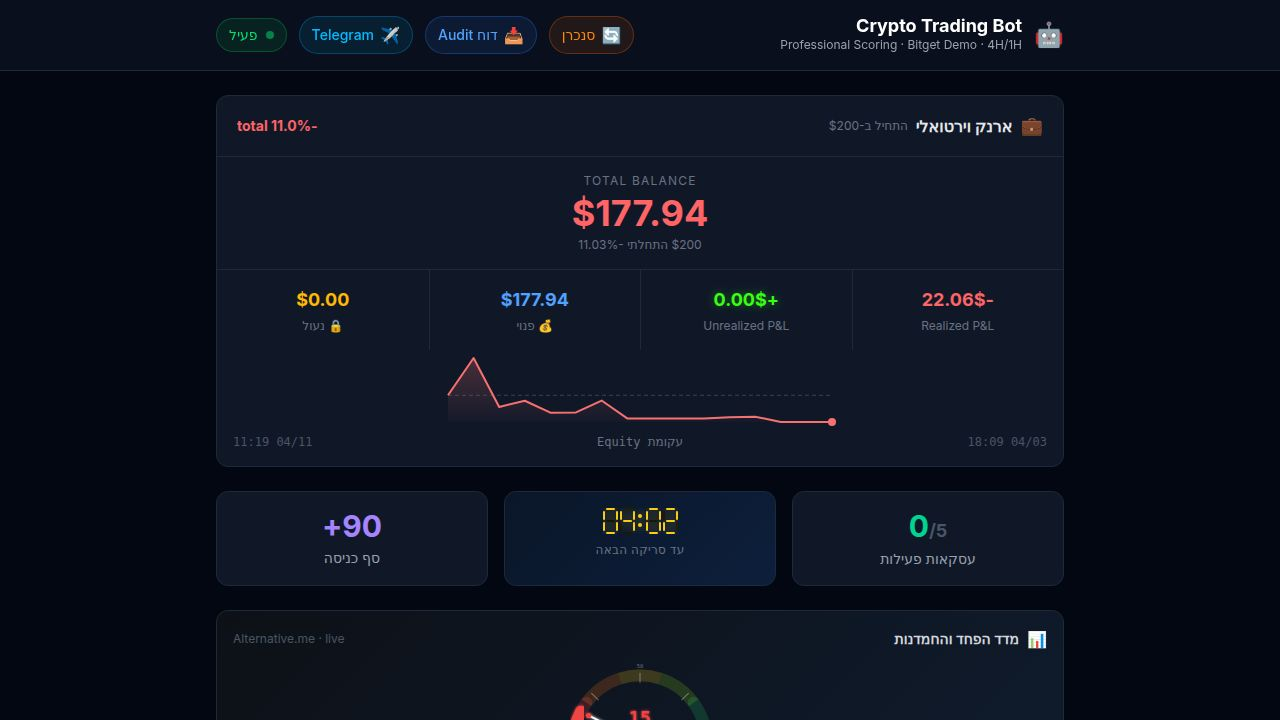
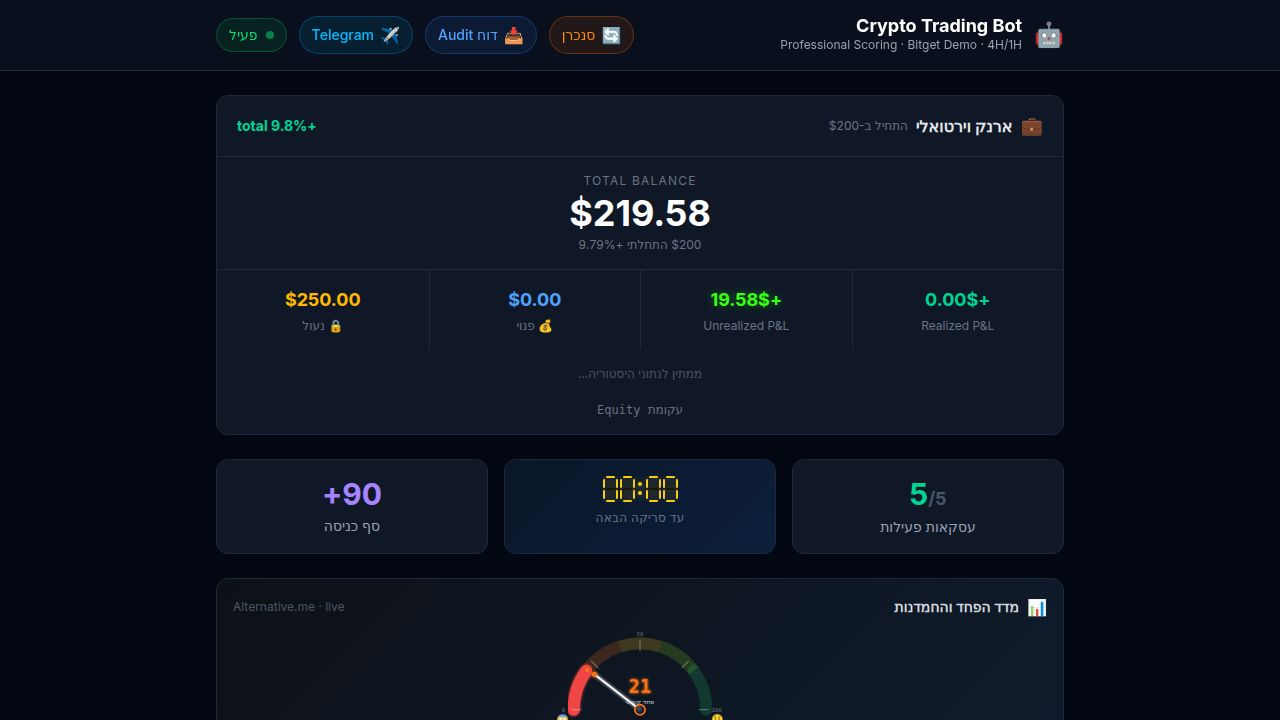
Update dashboard to fetch live trading data
Configure Vite for local development proxying and adjust API endpoint fetching for real-time data.

Replit-Commit-Author: Agent
Replit-Commit-Session-Id: a1217b88-0c2e-4762-9960-1f06053d05c0
Replit-Commit-Checkpoint-Type: full_checkpoint
Replit-Commit-Event-Id: 14082106-265a-45ac-bdfd-93a8cc59fdc0
Replit-Commit-Screenshot-Url: https://storage.googleapis.com/screenshot-production-us-central1/95de2b83-78fc-4e84-b223-d602409dd064/a1217b88-0c2e-4762-9960-1f06053d05c0/jdo5VUK
Replit-Helium-Checkpoint-Created: true

diff --git a/artifacts/bot-dashboard/src/App.tsx b/artifacts/bot-dashboard/src/App.tsx
@@ -522,7 +522,7 @@ function TradeCard({ trade }: { trade: Trade }) {
 }
 
 // Deployed bot Flask API — single source of truth for live data
-const BOT_API = "https://python-script-bymzrkhy.replit.app";
+const BOT_API = import.meta.env.DEV ? "" : "https://python-script-bymzrkhy.replit.app";
 
 interface FngData { value: number; label: string; updated_at?: number; time_until_update?: number; }
 

diff --git a/artifacts/bot-dashboard/vite.config.ts b/artifacts/bot-dashboard/vite.config.ts
@@ -66,6 +66,13 @@ export default defineConfig({
       strict: true,
       deny: ["**/.*"],
     },
+    proxy: {
+      "/api": {
+        target: "http://localhost:8080",
+        changeOrigin: true,
+        secure: false,
+      },
+    },
   },
   preview: {
     port,
